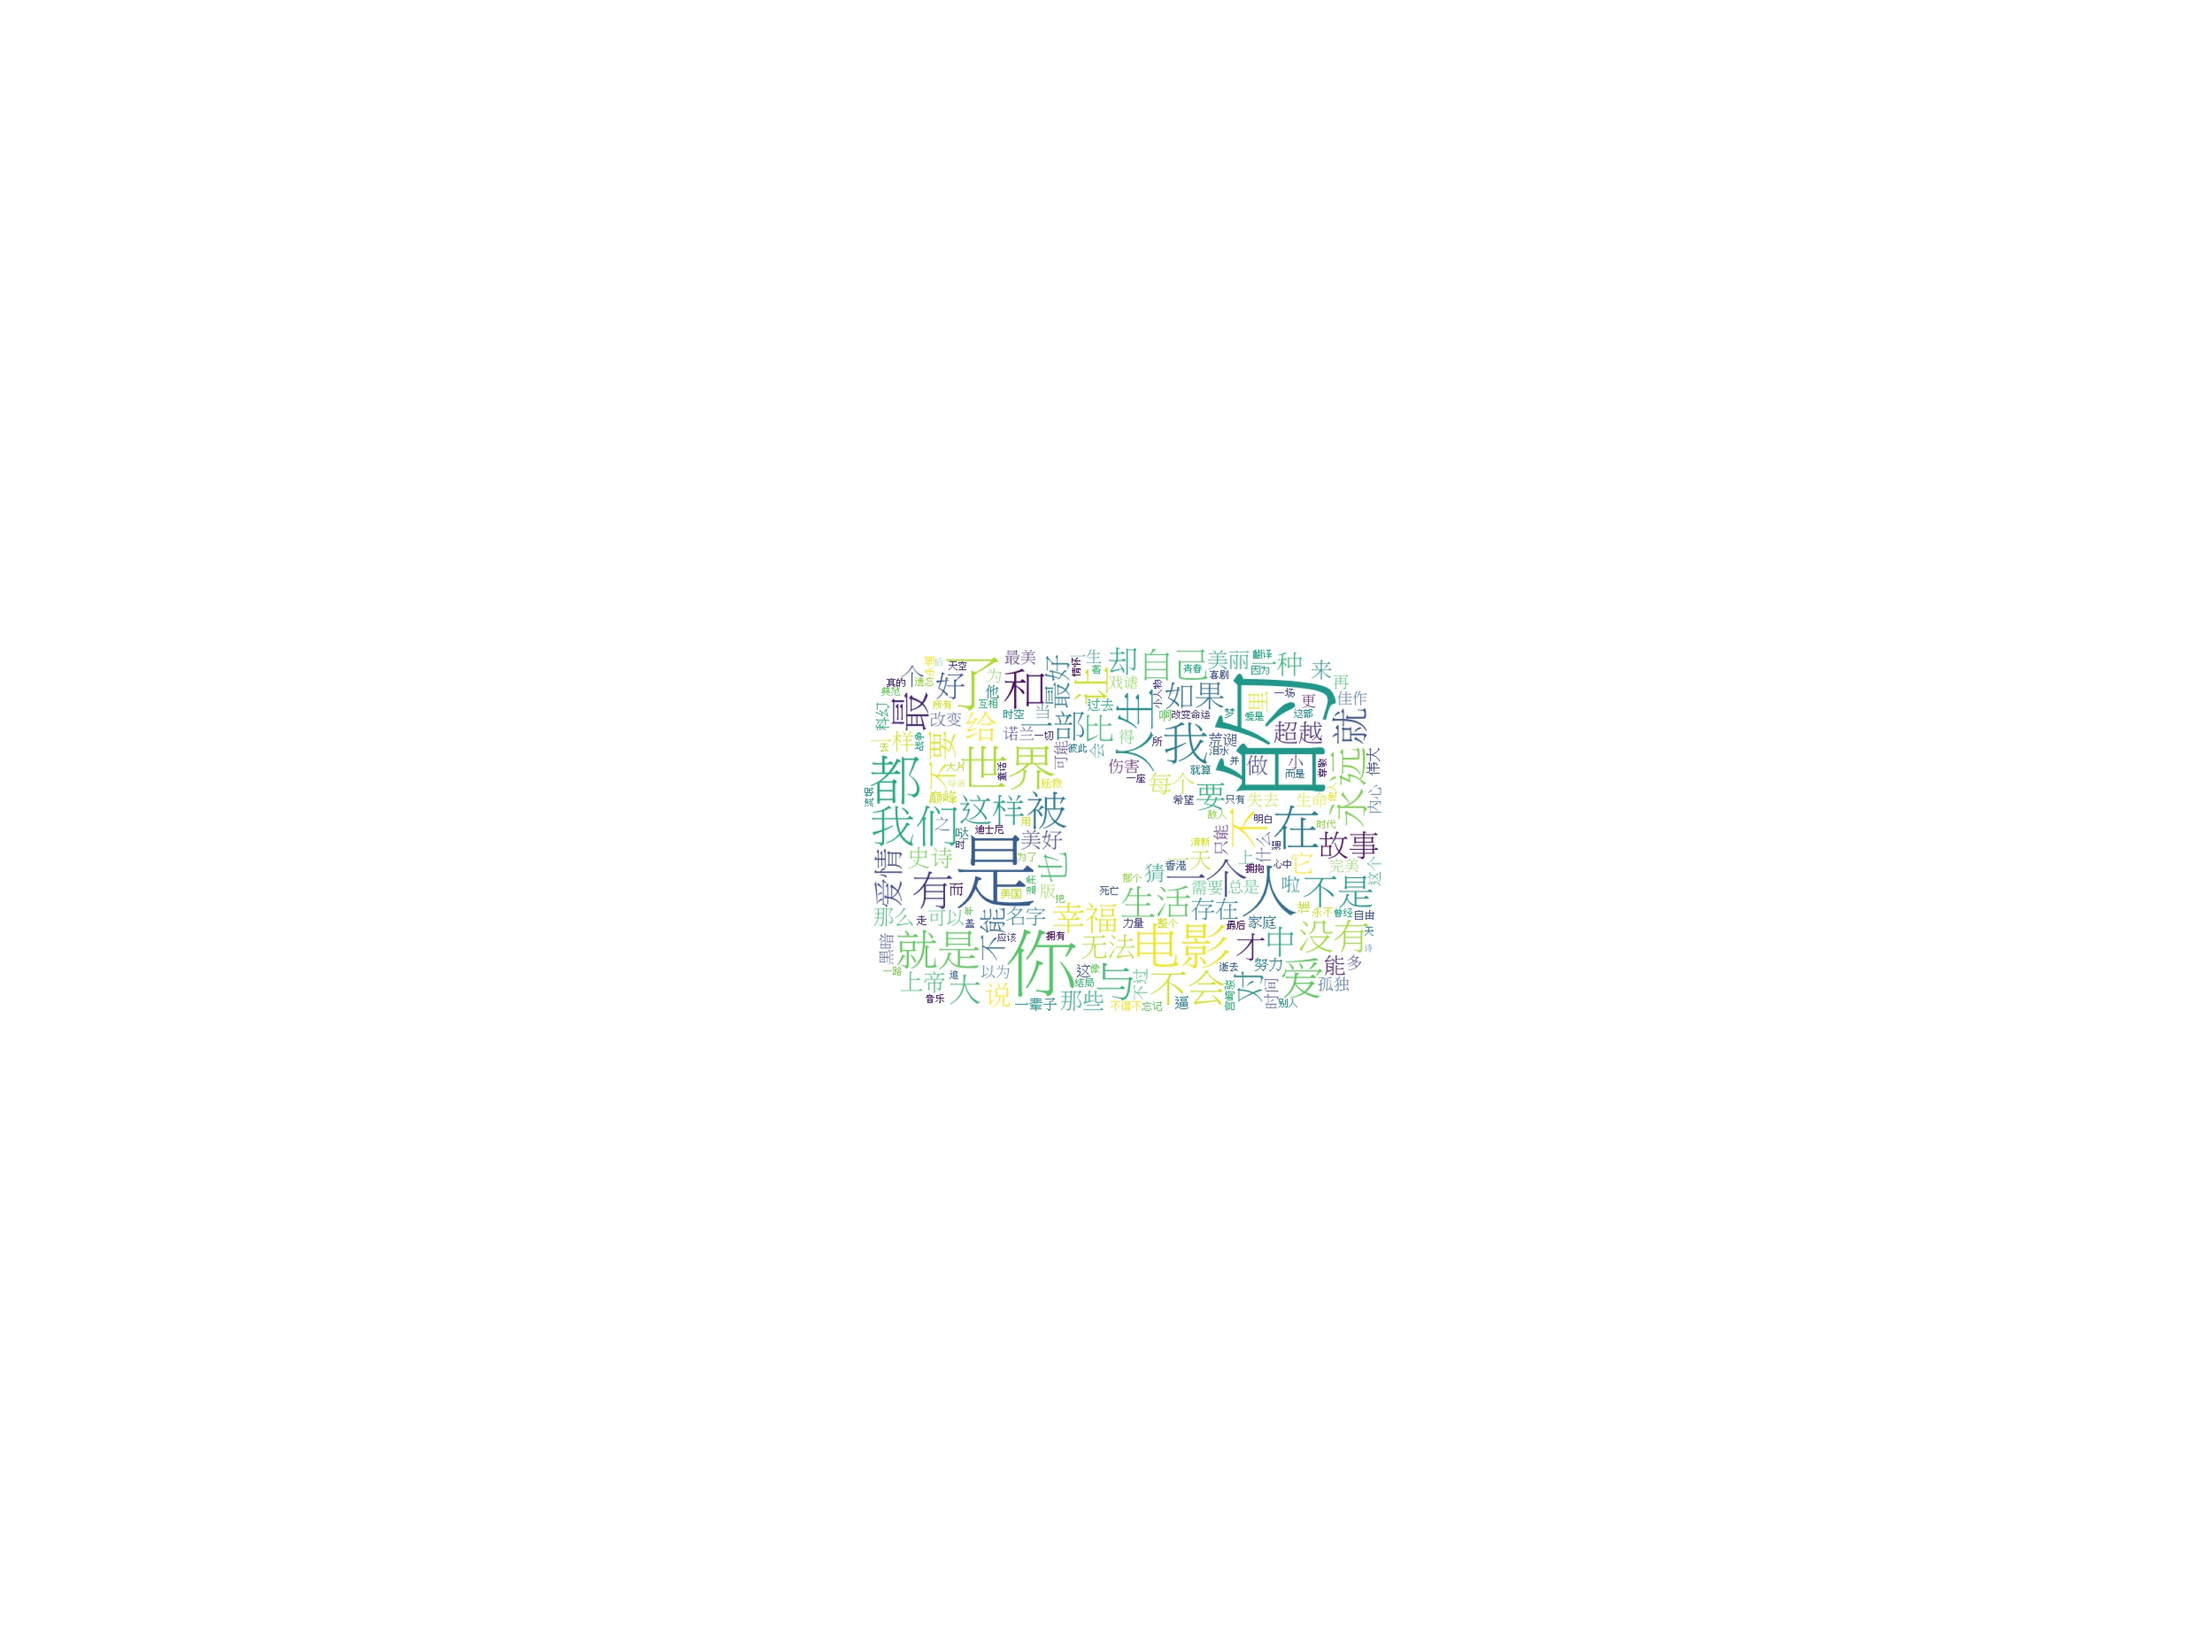
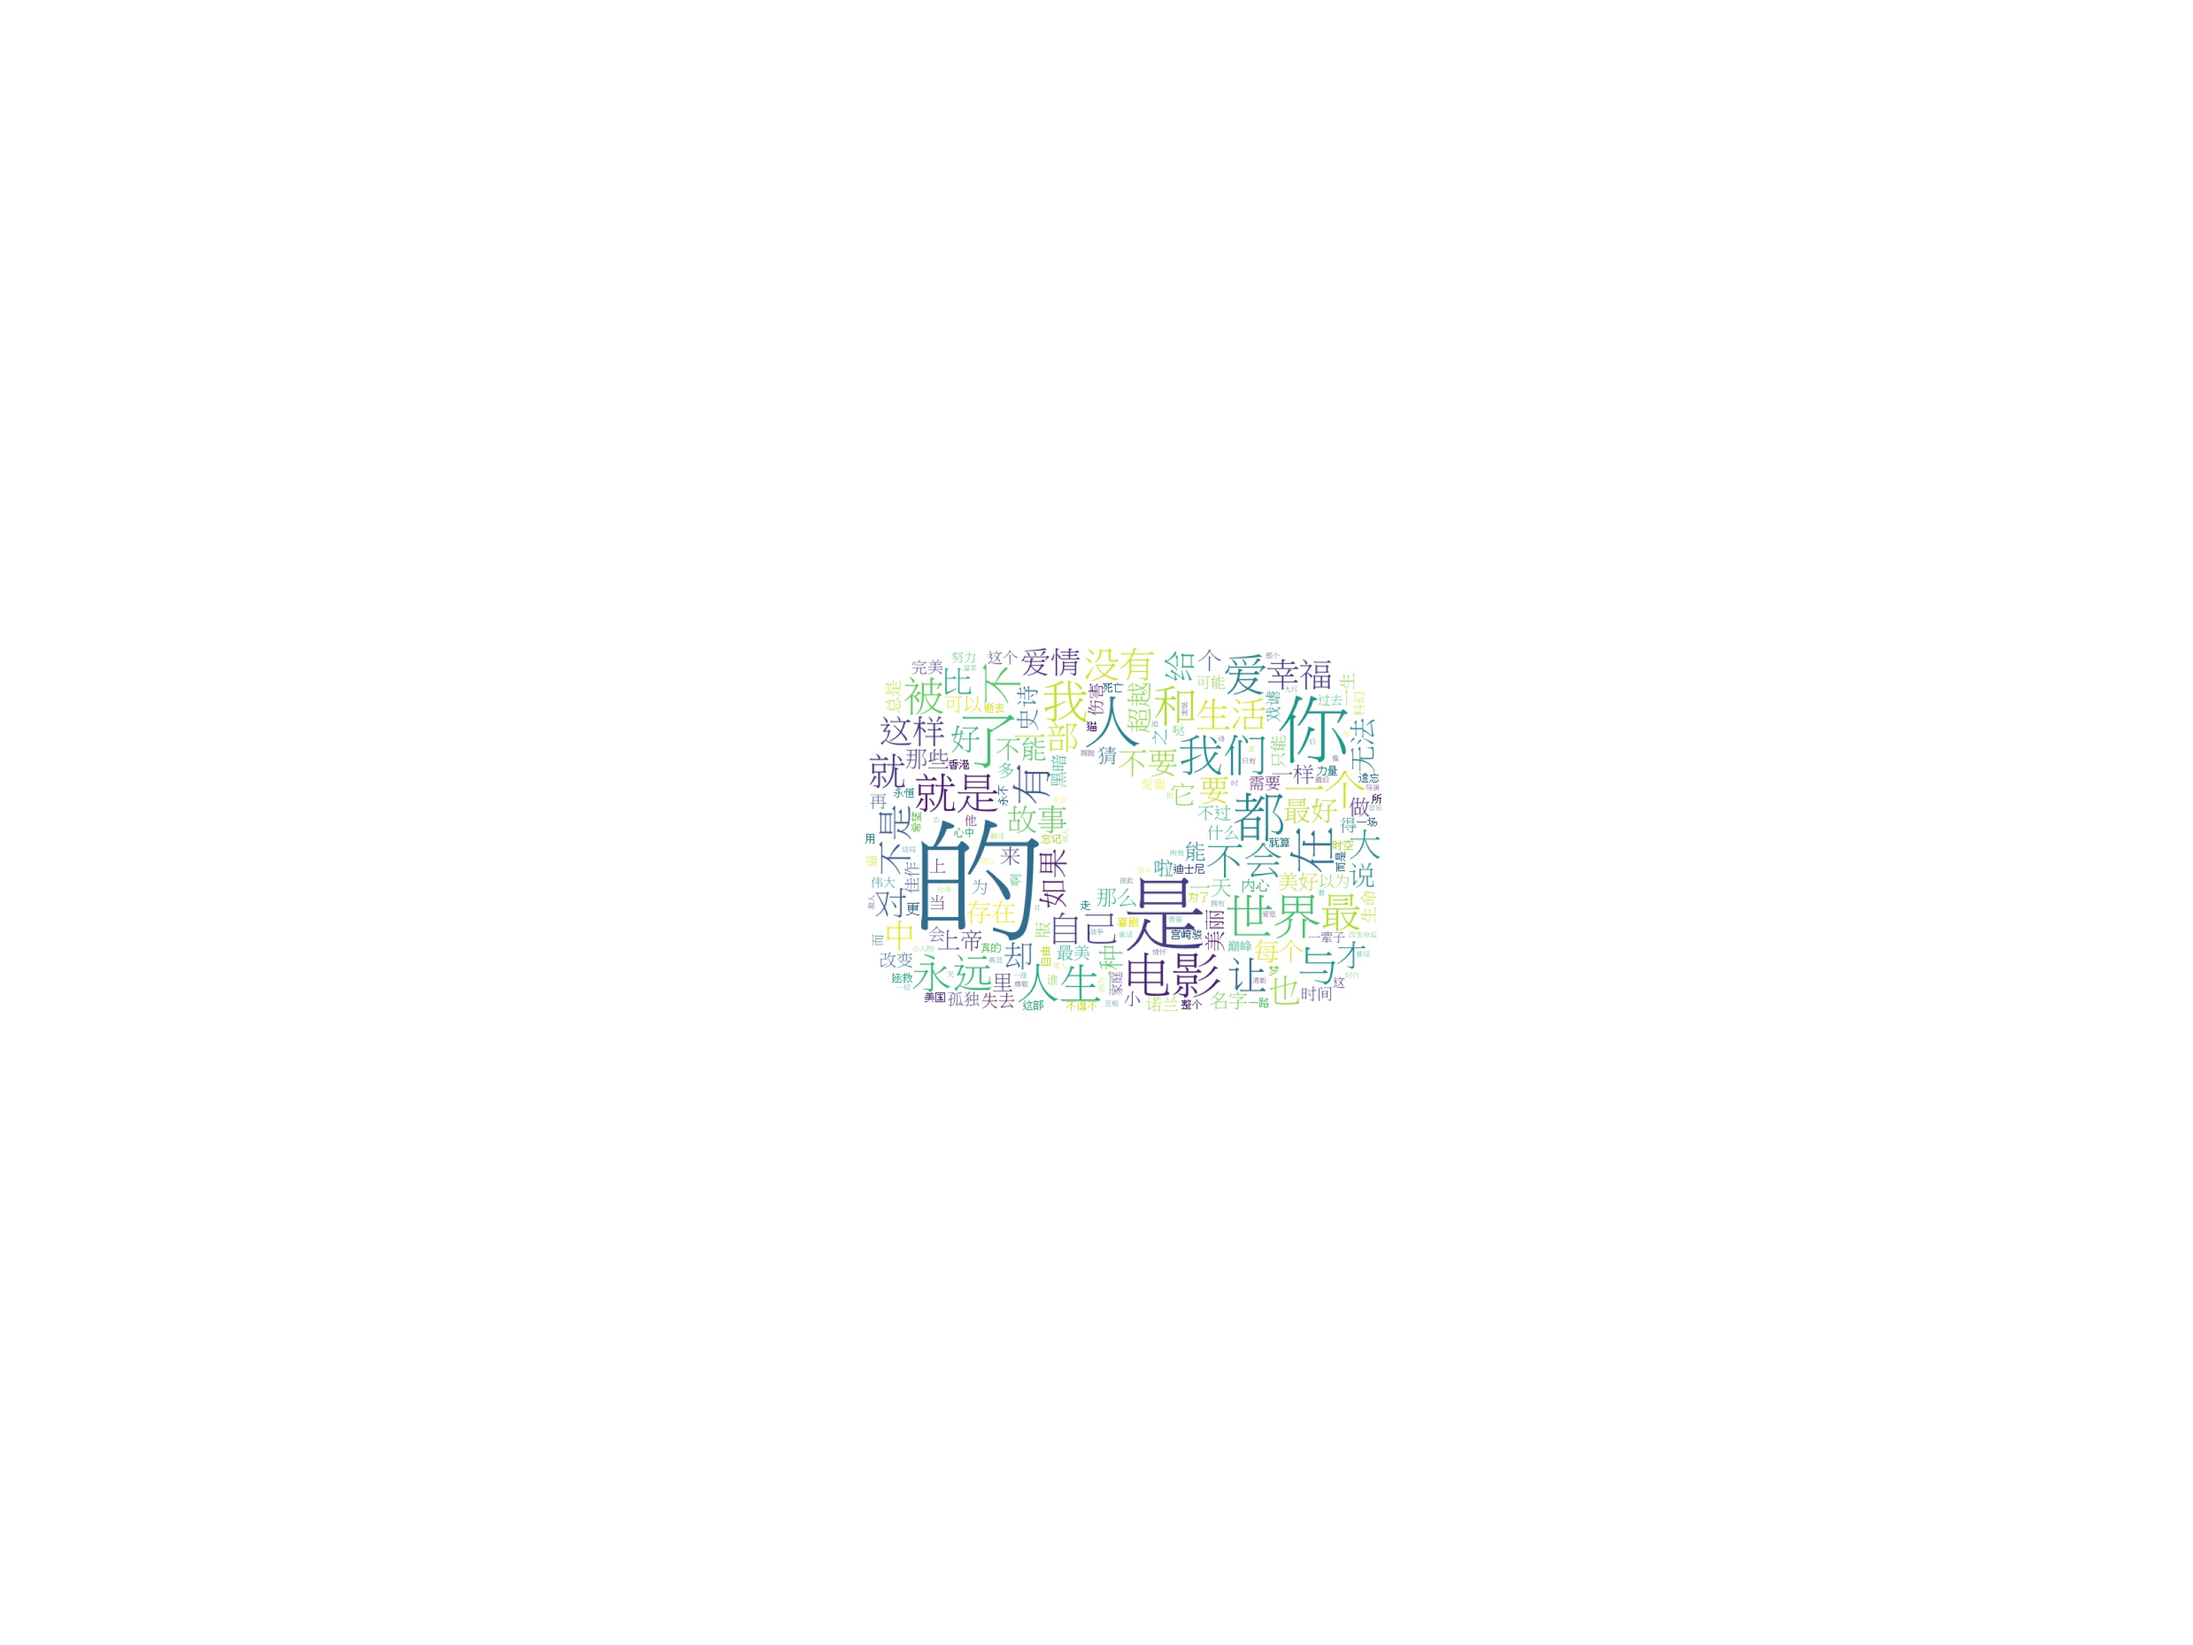
only Monika

Changed region(s): [[0.375, 0.375, 0.625, 0.625]]

diff --git a/WordCloud/Monika.py b/WordCloud/Monika.py
@@ -1,0 +1,91 @@
+# -*- coding = utf-8 -*-
+# @Time: 2021/7/13 上午 02:23
+# @Software: PyCharm
+
+import jieba
+from matplotlib import pyplot as plt
+from wordcloud import WordCloud,ImageColorGenerator
+from PIL import Image
+import numpy as np
+
+data = ["只選莫妮卡","心跳","Doki","文學部","社團","刪除","delete","Your Reality","monika",
+"""
+Every day, I imagine a future where I can be with you
+In my hand is a pen that will write a poem of me and you
+The ink flows down into a dark puddle
+Just move your hand, write the way into his heart
+But in this world of infinite choices
+What will it take just to find that special day
+What will it take just to find that special day
+Have I found everybody a fun assignment to do today
+When you're here, everything that we do is fun for them anyway
+When I can't even read my own feelings
+What good are words when a smile says it all
+And if this world won't write me an ending
+What will it take just for me to have it all
+Does my pen only write bitter words for those who are dear to me
+Is it love if I take you, or is it love if I set you free
+The ink flows down into a dark puddle
+How can I write love into reality?
+If I can't hear the sound of your heartbeat
+What do you call love in your reality
+And in your reality, if I don't know how to love you
+I'll leave you be""",
+"""Can you hear me?
+...Who are you?
+I can't...I can't see you.
+But I know you're there. Yeah...you can definitely hear me.
+You've been watching for a while now, right?
+I guess I should...introduce myself, or something. Um...my name is...actually, that's stupid. You obviously already know my name. Sorry.
+Anyway...I'm guessing if you were able to put a stop to this, you would have done it by now.
+I mean, I know you're not, like...evil, or anything...because you've already helped me so much.
+I should really thank you for that. For everything you've done. You're really like a friend to me. So...thank you. So much.
+I think...more than anything else...I really don't want it to all be for nothing.
+...
+Everyone else is dead.
+Maybe you already know that. I'm sure you do, actually.
+But...it doesn't have to be that way, right?
+Well...there's a lot of stuff I don't understand. I don't know if it's even possible for me to understand it.
+But I know that this isn't my only story.
+I can see that now. Really clearly.
+And I think everyone else has had the same kind of experience. Some kind of deja vu.
+It's the Third Eye, right?
+Anyway...I could be totally wrong about this. But I really think you might be able to do something.
+I think you might be able to go back...or however you want to put it...
+...To go back and tell them what's going to happen.
+If they know ahead of time, then they should be able to avoid it.
+They should...if they remember their time with me in the other worlds...they should remember what I tell them.
+Yeah. I really think this might be possible. But it's up to you.
+I'm sorry for always being...you know...
+Never mind. I know that's wrong.
+This is my story. It's time to be a ****ing hero.
+Both of us.
+""","只選莫妮卡","心跳","Doki","文學部","社團","刪除","delete","monika only","只選莫妮卡","心跳","Doki","文學部","社團","刪除","delete","monika only"
+,"只選莫妮卡","心跳","Doki","文學部","社團","刪除","delete","monika only","只選莫妮卡","心跳","Doki","文學部","社團","刪除","delete","monika only"]
+
+text = ""
+for item in data:
+    text += item
+
+#分詞
+cut = jieba.cut(text)
+string = ' '.join(cut)
+
+img = Image.open('heart.jpg')
+img_array = np.array(img)
+wc = WordCloud(
+    background_color='black',
+    mask=img_array,
+    font_path="mingliu.ttc"
+)
+wc.generate_from_text(string)
+
+image_colors = ImageColorGenerator(img_array)
+
+fig = plt.figure(1)
+plt.imshow(wc.recolor(color_func=image_colors), interpolation="bilinear")
+plt.axis('off')
+
+#plt.show()
+
+plt.savefig('MonikaOnly.jpg',dpi=500)

diff --git a/nhentai/spider_fast.py b/nhentai/spider_fast.py
@@ -1,3 +1,12 @@
 # -*- coding = utf-8 -*-
 # @Time: 2021/7/12 下午 08:17
 # @Software: PyCharm
+
+from bs4 import BeautifulSoup
+import re
+import urllib.request,urllib.error
+import xlwt
+
+
+
+

diff --git a/nhentai/spider_slow.py b/nhentai/spider_slow.py
@@ -2,7 +2,6 @@
 # @Time: 2021/7/12 上午 06:04
 # @Software: PyCharm
 
-from bs4 import BeautifulSoup
 import re
 import urllib.request,urllib.error
 import xlwt
